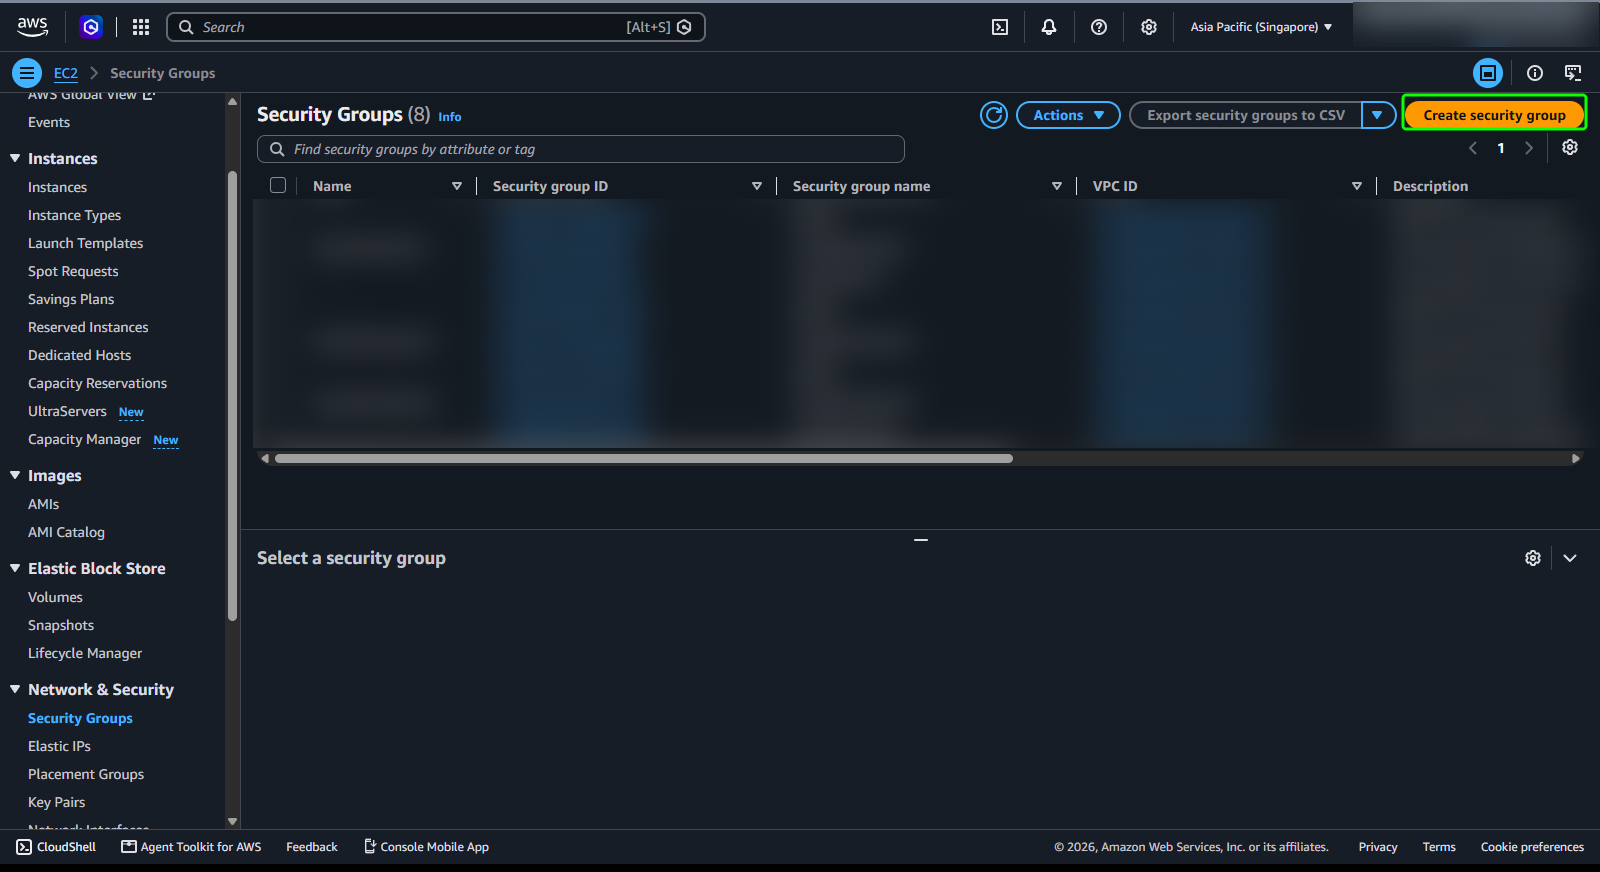
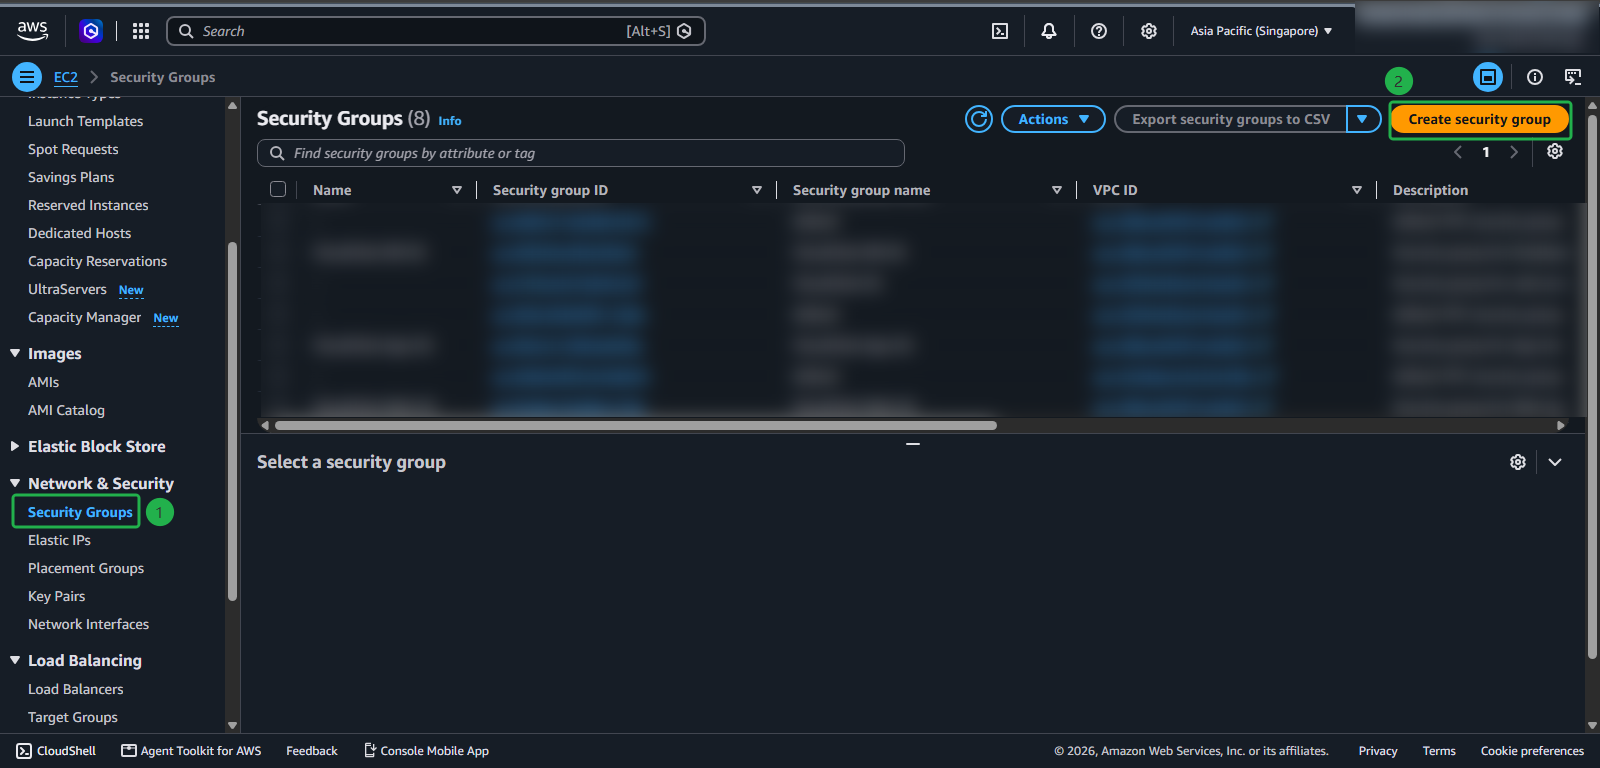
Redo 2.2 EC2 security groups in new VPC

diff --git a/content/2-preparation/2-2-createec2sg/_index.vi.md b/content/2-preparation/2-2-createec2sg/_index.vi.md
@@ -22,7 +22,9 @@ Chỉ máy tính của bạn kết nối được tới bastion host, và chỉ 
 
 #### Tạo bastion-sg
 
-1. Mở [Amazon EC2 console](https://console.aws.amazon.com/ec2/), chọn **Security Groups** trong mục **Network & Security**, sau đó chọn **Create security group**.
+1. Mở [Amazon EC2 console](https://console.aws.amazon.com/ec2/):
+    - (1) Trong mục **Network & Security**, chọn **Security Groups**.
+    - (2) Chọn **Create security group**.
 
     ![Create security group](/images/2-preparation/2.2/1.png)
 
@@ -37,11 +39,15 @@ Chỉ máy tính của bạn kết nối được tới bastion host, và chỉ 
 Ô **VPC** mặc định là VPC default. Hãy chắc chắn bạn chọn `rdspg-lab-vpc`. Tên và mô tả của security group không thể sửa sau khi tạo.
 {{% /notice %}}
 
-3. Trong **Inbound rules**, chọn **Add rule**: (1) **Type**: `SSH`, (2) **Source type**: `My IP`.
+3. Trong **Inbound rules**, chọn **Add rule**:
+    - (1) **Type**: `SSH`
+    - (2) **Source type**: `My IP`
 
     ![bastion-sg inbound rule](/images/2-preparation/2.2/3.png)
 
-4. (1) Giữ mặc định **Outbound rules**. (2) Chọn **Create security group**.
+4. Hoàn tất tạo security group:
+    - (1) Giữ mặc định **Outbound rules**.
+    - (2) Chọn **Create security group**.
 
     ![bastion-sg outbound rule](/images/2-preparation/2.2/4.png)
 
@@ -62,7 +68,10 @@ Chỉ máy tính của bạn kết nối được tới bastion host, và chỉ 
 
     ![app-sg basic details](/images/2-preparation/2.2/6.png)
 
-7. Trong **Inbound rules**, chọn **Add rule**: (1) **Type**: `SSH`, (2) **Source type**: `Custom`, (3) **Source**: chọn `bastion-sg`.
+7. Trong **Inbound rules**, chọn **Add rule**:
+    - (1) **Type**: `SSH`
+    - (2) **Source type**: `Custom`
+    - (3) **Source**: chọn `bastion-sg`
 
     ![app-sg inbound rule](/images/2-preparation/2.2/7.png)
 

diff --git a/content/2-preparation/2-2-createec2sg/_index.md b/content/2-preparation/2-2-createec2sg/_index.md
@@ -22,7 +22,9 @@ Only your computer can reach the bastion host, and only the bastion host can rea
 
 #### Create bastion-sg
 
-1. Open the [Amazon EC2 console](https://console.aws.amazon.com/ec2/), choose **Security Groups** under **Network & Security**, then choose **Create security group**.
+1. Open the [Amazon EC2 console](https://console.aws.amazon.com/ec2/):
+    - (1) Under **Network & Security**, choose **Security Groups**.
+    - (2) Choose **Create security group**.
 
     ![Create security group](/images/2-preparation/2.2/1.png)
 
@@ -37,11 +39,15 @@ Only your computer can reach the bastion host, and only the bastion host can rea
 The **VPC** field defaults to your default VPC. Make sure you choose `rdspg-lab-vpc`. The security group name and description cannot be changed after creation.
 {{% /notice %}}
 
-3. In **Inbound rules**, choose **Add rule**: (1) **Type**: `SSH`, (2) **Source type**: `My IP`.
+3. In **Inbound rules**, choose **Add rule**:
+    - (1) **Type**: `SSH`
+    - (2) **Source type**: `My IP`
 
     ![bastion-sg inbound rule](/images/2-preparation/2.2/3.png)
 
-4. (1) Keep the default **Outbound rules**. (2) Choose **Create security group**.
+4. Finish creating the security group:
+    - (1) Keep the default **Outbound rules**.
+    - (2) Choose **Create security group**.
 
     ![bastion-sg outbound rule](/images/2-preparation/2.2/4.png)
 
@@ -62,7 +68,10 @@ Your public IP address may change. If you later cannot connect to the bastion ho
 
     ![app-sg basic details](/images/2-preparation/2.2/6.png)
 
-7. In **Inbound rules**, choose **Add rule**: (1) **Type**: `SSH`, (2) **Source type**: `Custom`, (3) **Source**: choose `bastion-sg`.
+7. In **Inbound rules**, choose **Add rule**:
+    - (1) **Type**: `SSH`
+    - (2) **Source type**: `Custom`
+    - (3) **Source**: choose `bastion-sg`
 
     ![app-sg inbound rule](/images/2-preparation/2.2/7.png)
 
